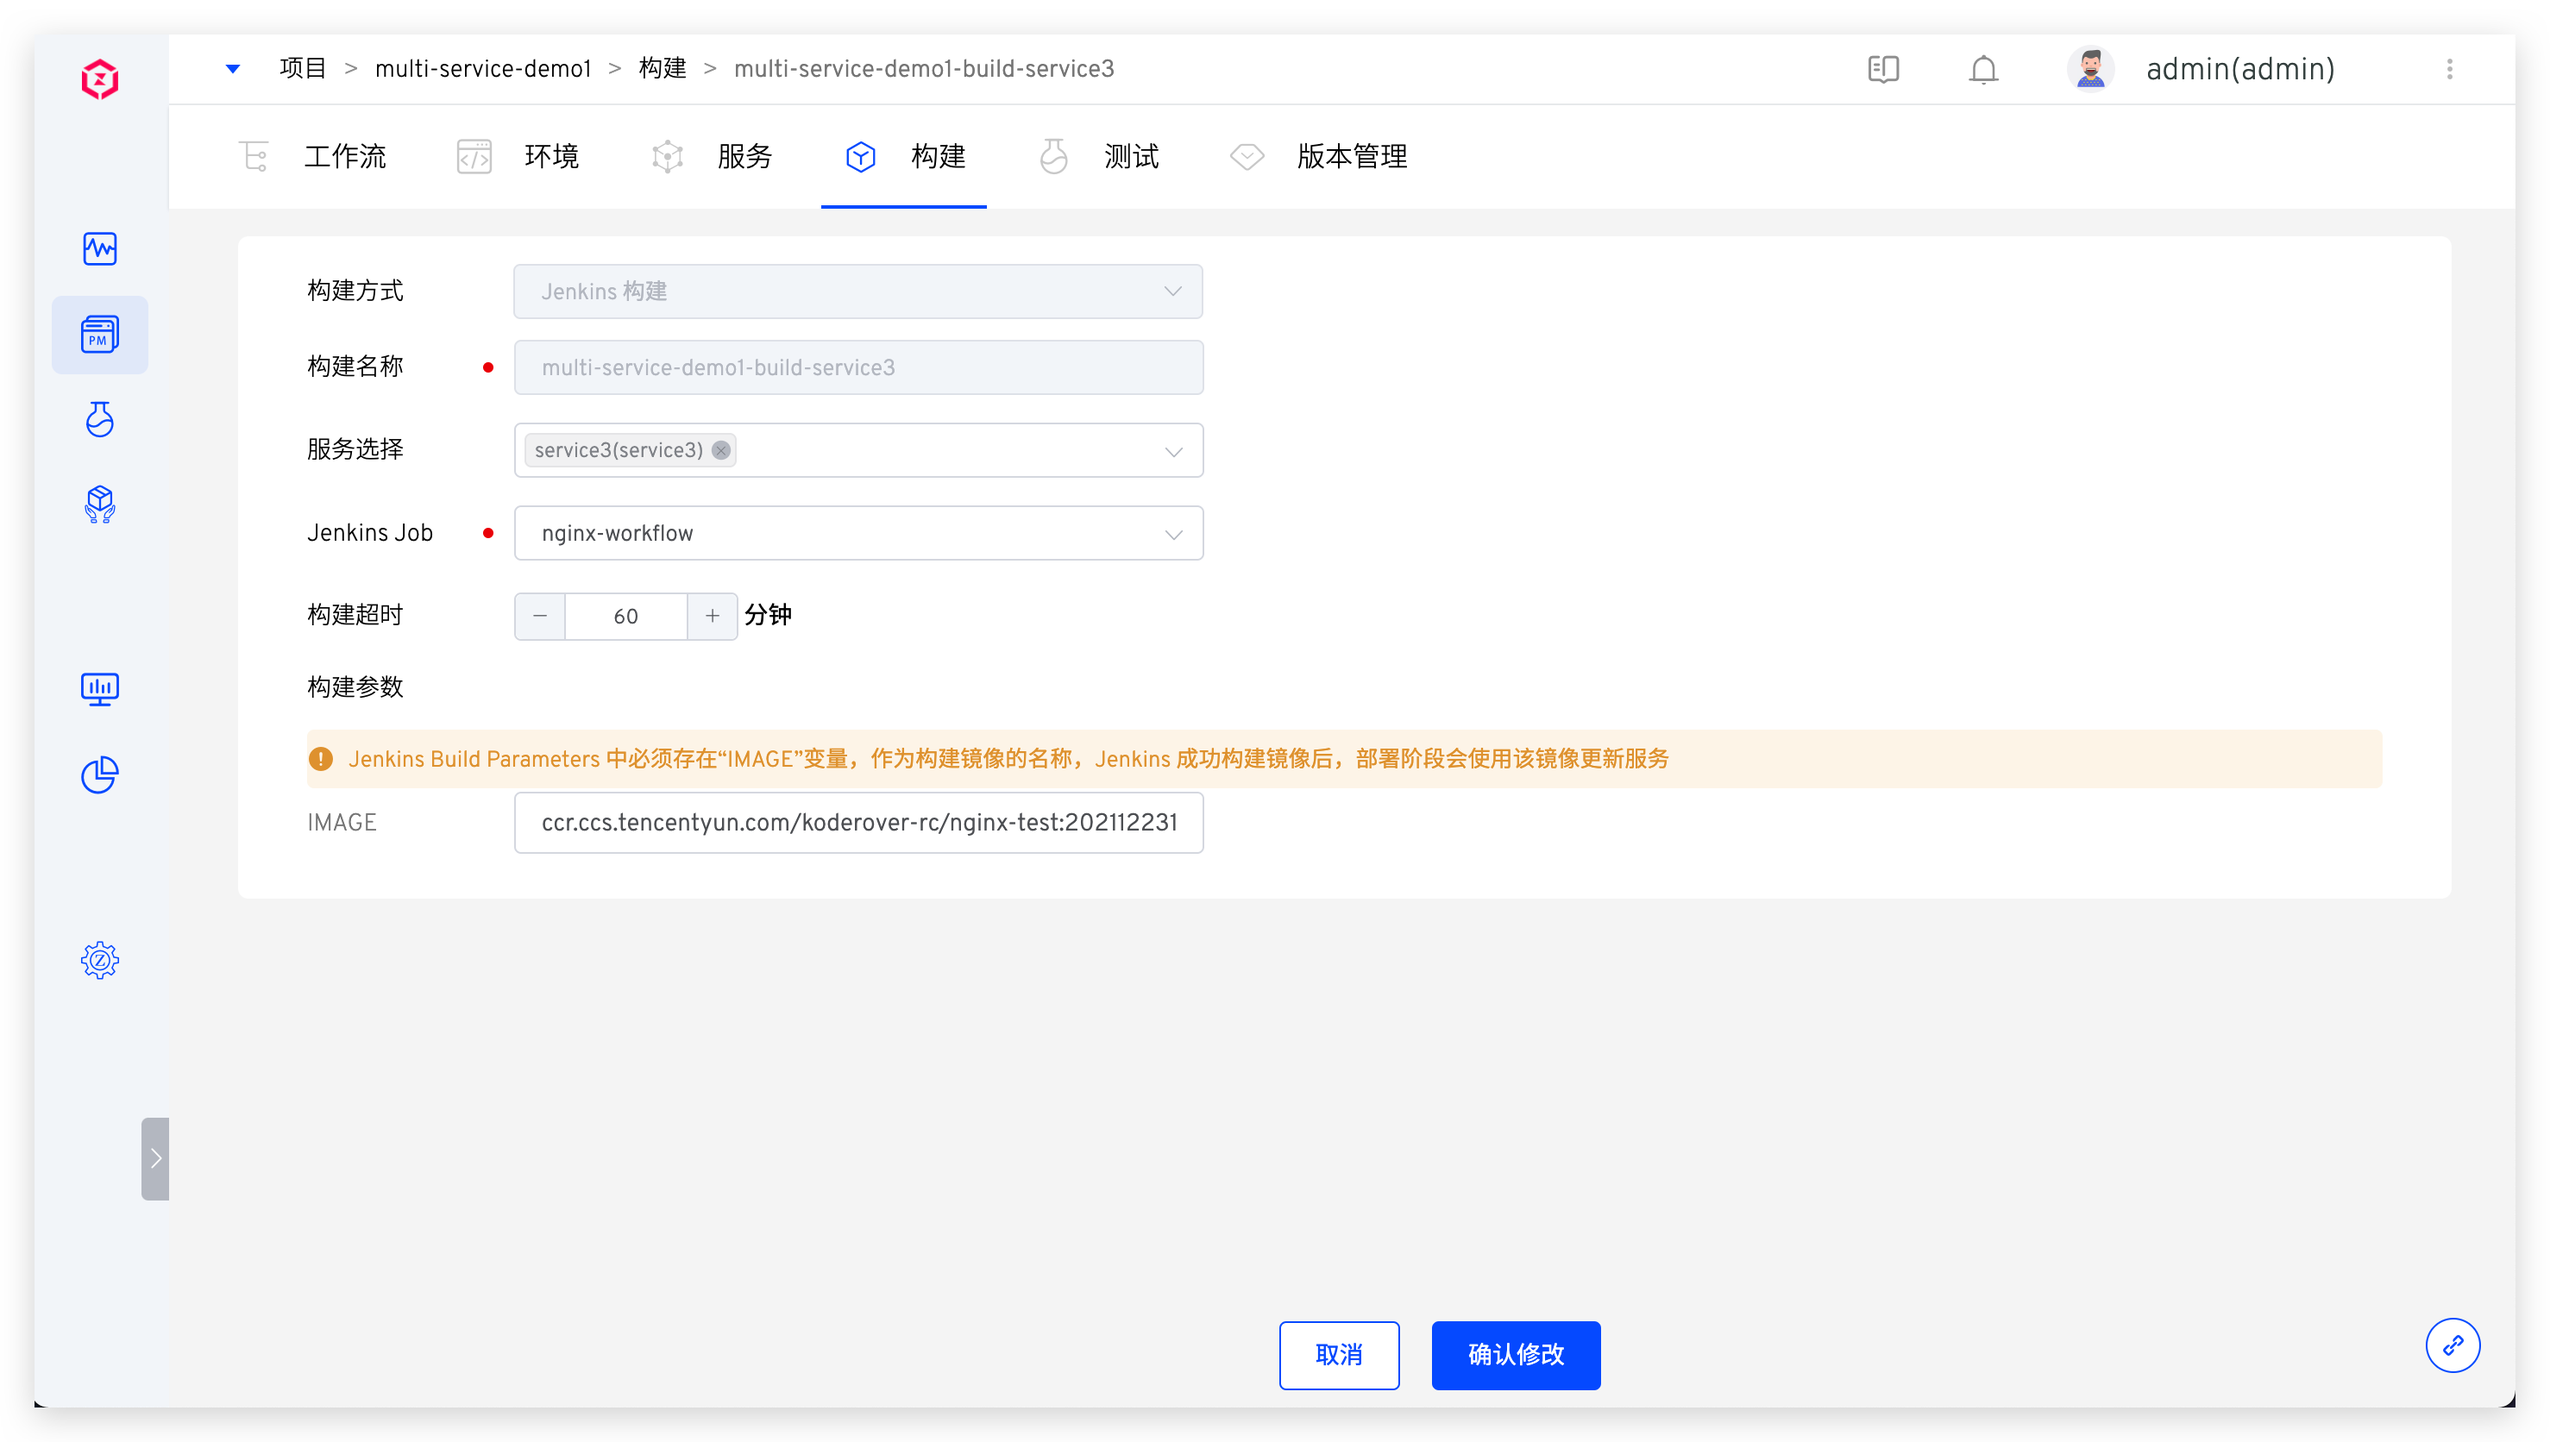
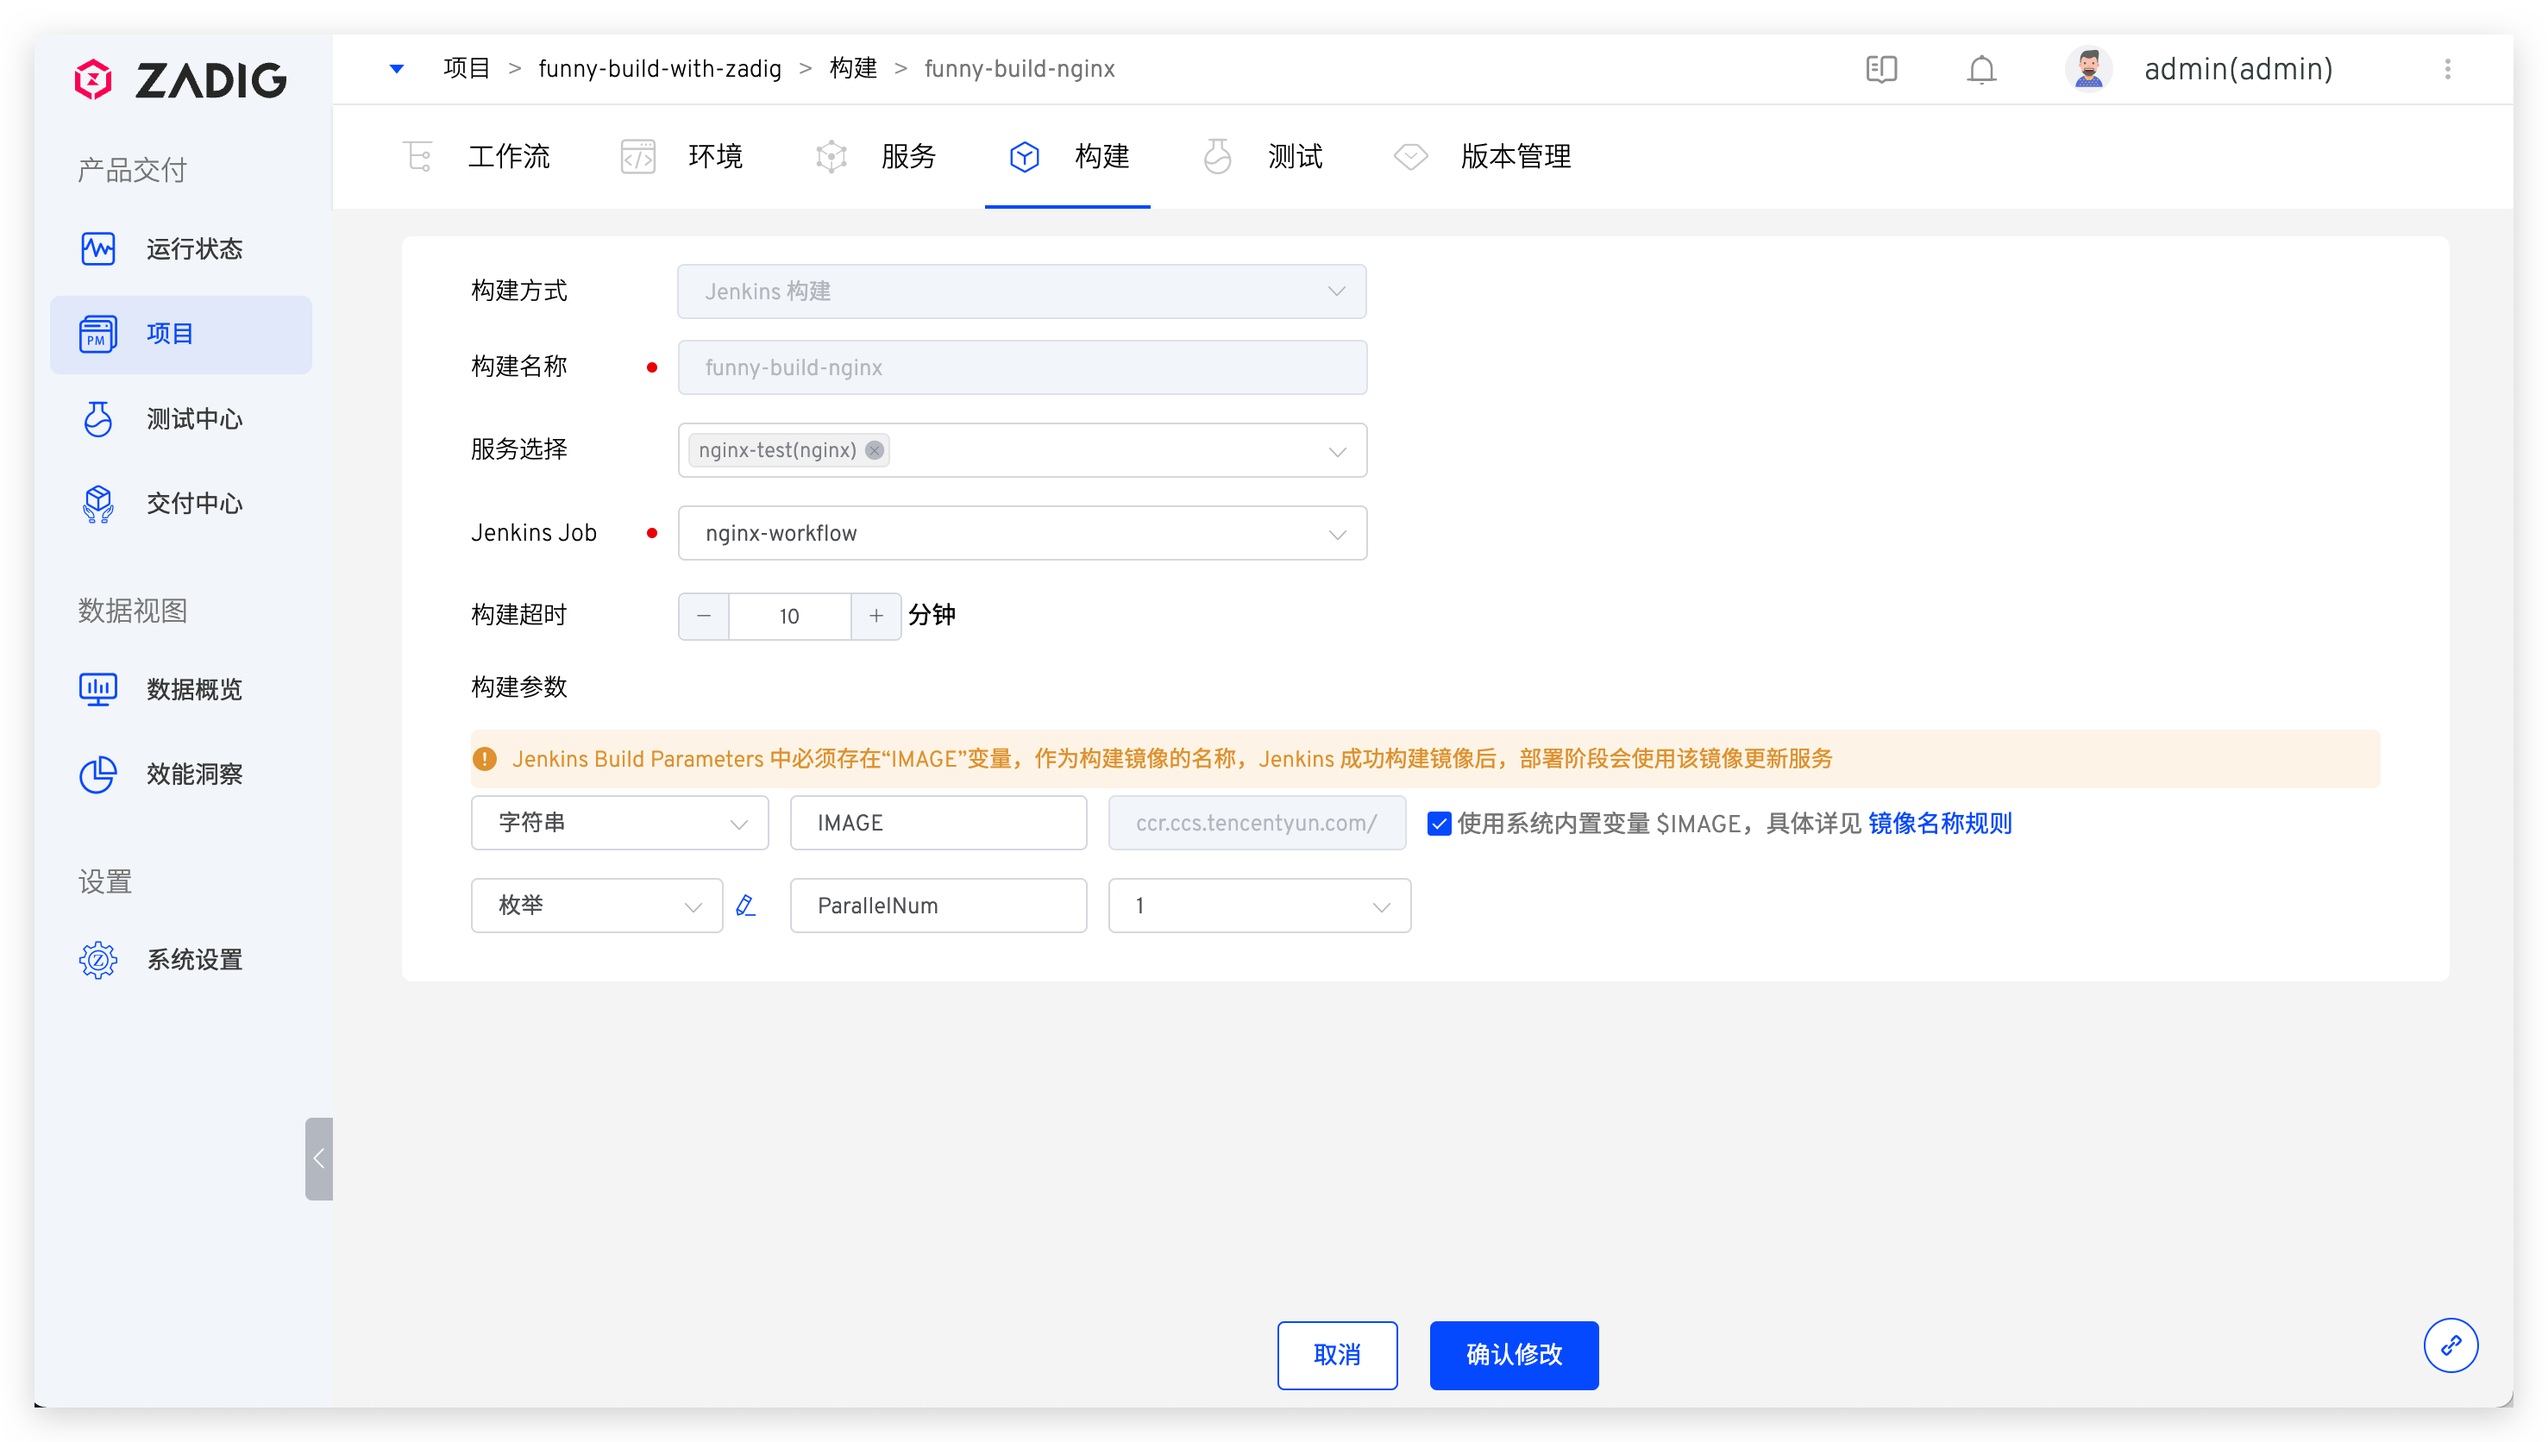
update jenkins build parameter

diff --git a/dev/04.项目/05.build.md b/dev/04.项目/05.build.md
@@ -231,6 +231,9 @@ docker push $IMAGE
 新建构建，构建来源选择 `Jenkins 构建`，填写相关参数保存即可。参数说明如下：
 - `服务选择`：要构建的服务。
 - `jenkins job`：从集成的 Jenkins Server 中按需选择 Jenkins Job。
-- `构建参数`：`IMAGE` 参数，在运行工作流的时候可以手动输入，传递给 Jenkins Job 作为构建镜像产物名称，如下图所示：
+- `构建超时`：超过设定的时间后，工作流执行构建仍未结束则视为构建超时。
+- `构建参数`：会自动解析出对应 Jenkins Job 中的参数项，可在 Zadig 平台中做修改。说明如下：
+    - `IMAGE` 参数：即为[前提](#前提)中的 `IMAGE` 变量，运行工作流时会传递给对应的 Jenkins Job 作为构建镜像产物名称。支持使用系统内置变量来为其赋值，参考[策略配置](/dev/project/service/k8s/#策略配置)。
+    - 枚举类型的参数：可修改枚举类型参数的可选值。注意：可选值需要在 Jenkins Job 中支持。以下图中的 Jenkins Job 参数配置为例，则此处可在 Zadig 中修改枚举参数 `ParallelNum` 的可选值为 1,2,3,4。
 
-![jenkins build](./_images/set_image_for_jenkins.png)
+![jenkins build](./_images/show_choice_values_in_jenkins.png)
